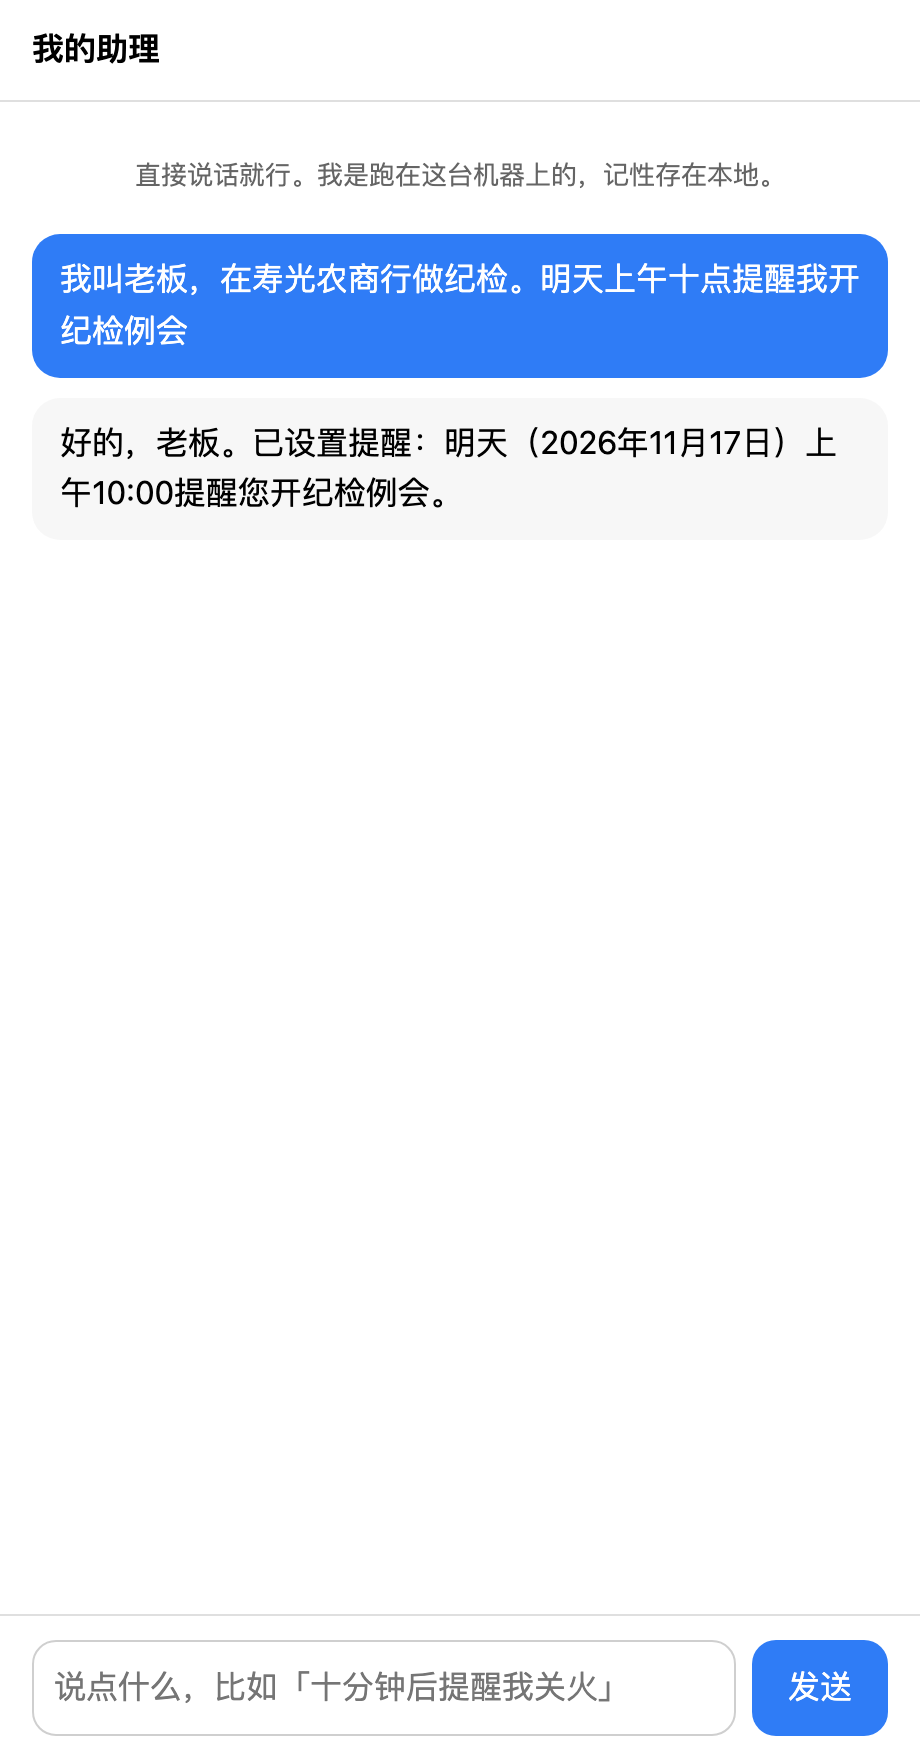
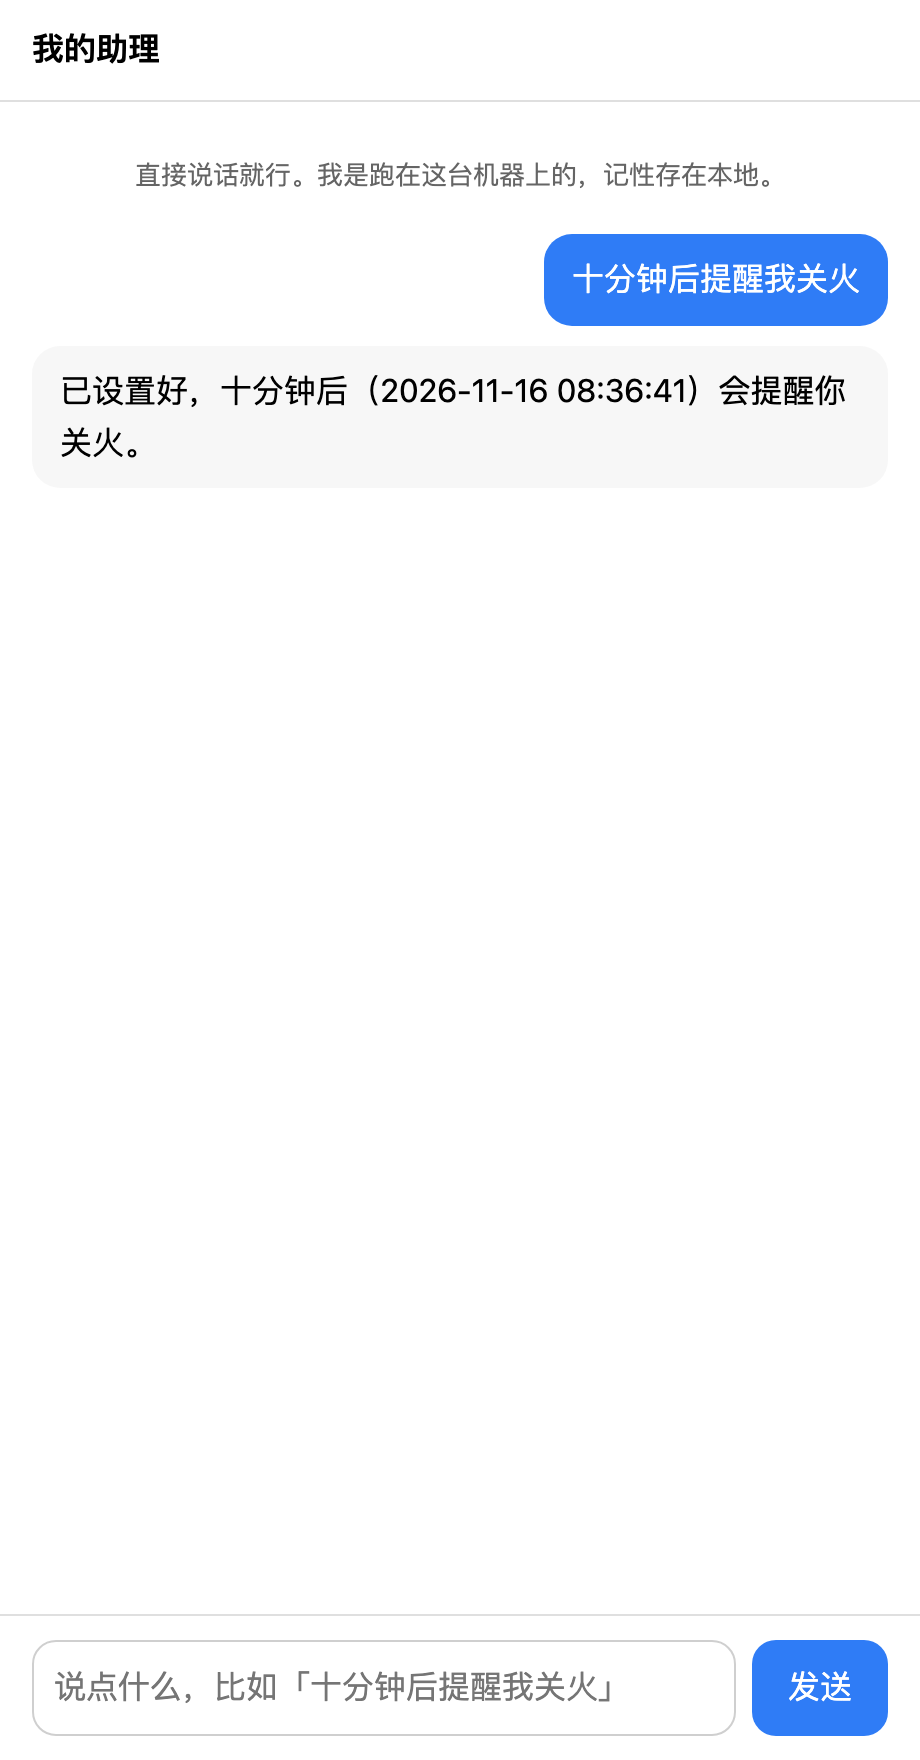
Show the few bits of markdown models keep writing
A reply came out as "**提醒时间：** 2026-11-16 08:36" — asterisks and all —
because the chat drew every answer as plain text. Bold, inline code and bare
links are now drawn as they were meant, built from text nodes so nothing a
model writes can turn into markup.

The page is one template literal, and an escape that did not survive it made
the whole script throw: the window was simply blank, with no error anywhere a
person would look. A test now parses the served script.

The README's screenshot is a real run of it, on a conversation with nobody in it.

Changed region(s): [[0.0304, 0.125, 0.9739, 0.3125]]

diff --git a/packages/channels/web/src/page.ts b/packages/channels/web/src/page.ts
@@ -17,6 +17,8 @@ export const PAGE = `<!doctype html>
   .me { align-self: flex-end; background: #2f7cf6; color: #fff; }
   .bot { align-self: flex-start; background: #8881; }
   .sys { align-self: center; font-size: 13px; opacity: .6; }
+  code { font-family: ui-monospace, SFMono-Regular, Menlo, monospace; font-size: .92em; background: #8882; padding: 1px 4px; border-radius: 4px; }
+  a { color: inherit; }
   form { display: flex; gap: 8px; padding: 12px 16px; border-top: 1px solid #8884; }
   textarea { flex: 1; resize: none; font: inherit; padding: 10px; border-radius: 12px; border: 1px solid #8886; background: transparent; color: inherit; }
   button { font: inherit; padding: 0 18px; border-radius: 12px; border: 0; background: #2f7cf6; color: #fff; }
@@ -34,10 +36,40 @@ export const PAGE = `<!doctype html>
   const text = document.getElementById('text');
   const send = document.getElementById('send');
 
+  // Models write a little markdown whether or not anyone asked. Showing the
+  // asterisks to a person who is not a programmer looks broken, so the three
+  // bits that show up most are drawn as they were meant. Everything is built
+  // from text nodes: nothing a model writes can become markup.
+  const parts = /(\\*\\*[^*\\n]+\\*\\*|\`[^\`\\n]+\`|https?:\\/\\/[^\\s]+)/g;
+
+  function render(target, body) {
+    body.split(parts).forEach((piece) => {
+      if (!piece) return;
+      if (piece.startsWith('**') && piece.endsWith('**')) {
+        const strong = document.createElement('strong');
+        strong.textContent = piece.slice(2, -2);
+        target.appendChild(strong);
+      } else if (piece.startsWith('\`') && piece.endsWith('\`')) {
+        const code = document.createElement('code');
+        code.textContent = piece.slice(1, -1);
+        target.appendChild(code);
+      } else if (piece.startsWith('http')) {
+        const link = document.createElement('a');
+        link.href = piece;
+        link.rel = 'noreferrer noopener';
+        link.target = '_blank';
+        link.textContent = piece;
+        target.appendChild(link);
+      } else {
+        target.appendChild(document.createTextNode(piece));
+      }
+    });
+  }
+
   function add(kind, body) {
     const div = document.createElement('div');
     div.className = 'msg ' + kind;
-    div.textContent = body;
+    render(div, body);
     log.appendChild(div);
     log.scrollTop = log.scrollHeight;
   }

diff --git a/packages/channels/web/test/web.test.ts b/packages/channels/web/test/web.test.ts
@@ -94,6 +94,17 @@ describe('web channel', () => {
 		expect(seen).toContain('"role":"me"');
 	});
 
+	it('ships a chat page whose script parses', async () => {
+		const { url } = await start();
+		const page = await (await fetch(`${url}/`)).text();
+		const script = page.slice(page.indexOf('<script>') + 8, page.lastIndexOf('</script>'));
+
+		// The page is one long template literal, so a stray escape can turn the
+		// whole script into a syntax error and leave a blank window. Parsing it
+		// here is the only thing that notices.
+		expect(() => new Function(script)).not.toThrow();
+	});
+
 	it('asks for a password when one is set', async () => {
 		const { url, messages } = await start({ password: 'hunter2' });
 

diff --git a/README.md b/README.md
@@ -32,7 +32,7 @@ pnpm start            # 启动
 
 然后打开 <http://127.0.0.1:8787>，直接打字说话。
 
-![浏览器里的聊天：说一句话，提醒就排进了日程，刷新页面聊天记录还在](docs/chat.png)
+![浏览器里说一句「十分钟后提醒我关火」，它就把提醒排进了日程：模型是免费的，没填任何 key](docs/chat.png)
 
 装完想知道它在哪、数据在哪、怎么换模型，看下面的配置表。
 
